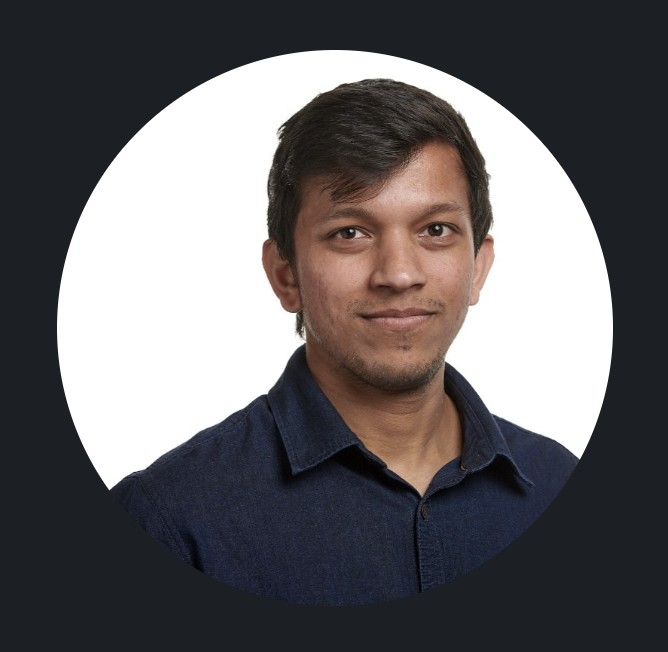
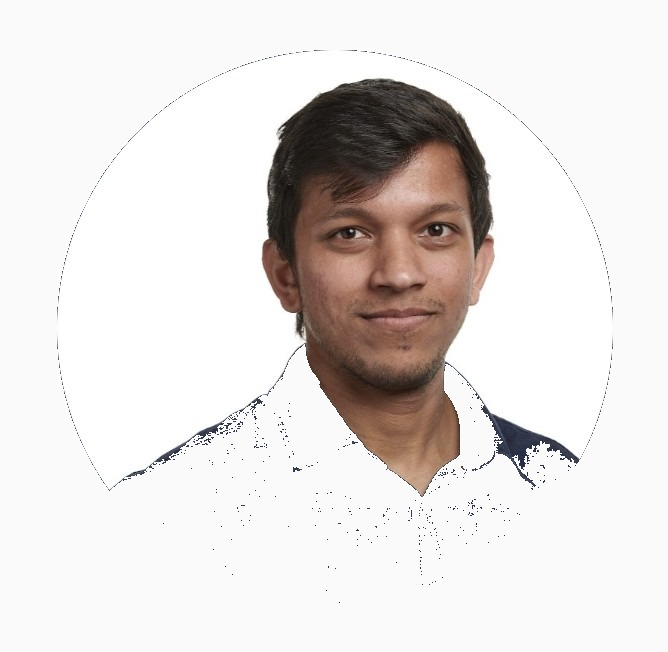
Clean photo background and restore proper circular crop

diff --git a/style.css b/style.css
@@ -164,19 +164,12 @@ main {
   text-decoration: none;
 }
 
-.profile-photo {
+.profile-photo img {
   width: 140px;
   height: 140px;
   border-radius: 50%;
-  overflow: hidden;
-  flex-shrink: 0;
-}
-.profile-photo img {
-  width: 140%;
-  height: 140%;
-  margin: -20%;
   object-fit: cover;
-  object-position: center 20%;
+  object-position: center top;
 }
 
 .profile-photo .photo-placeholder {
